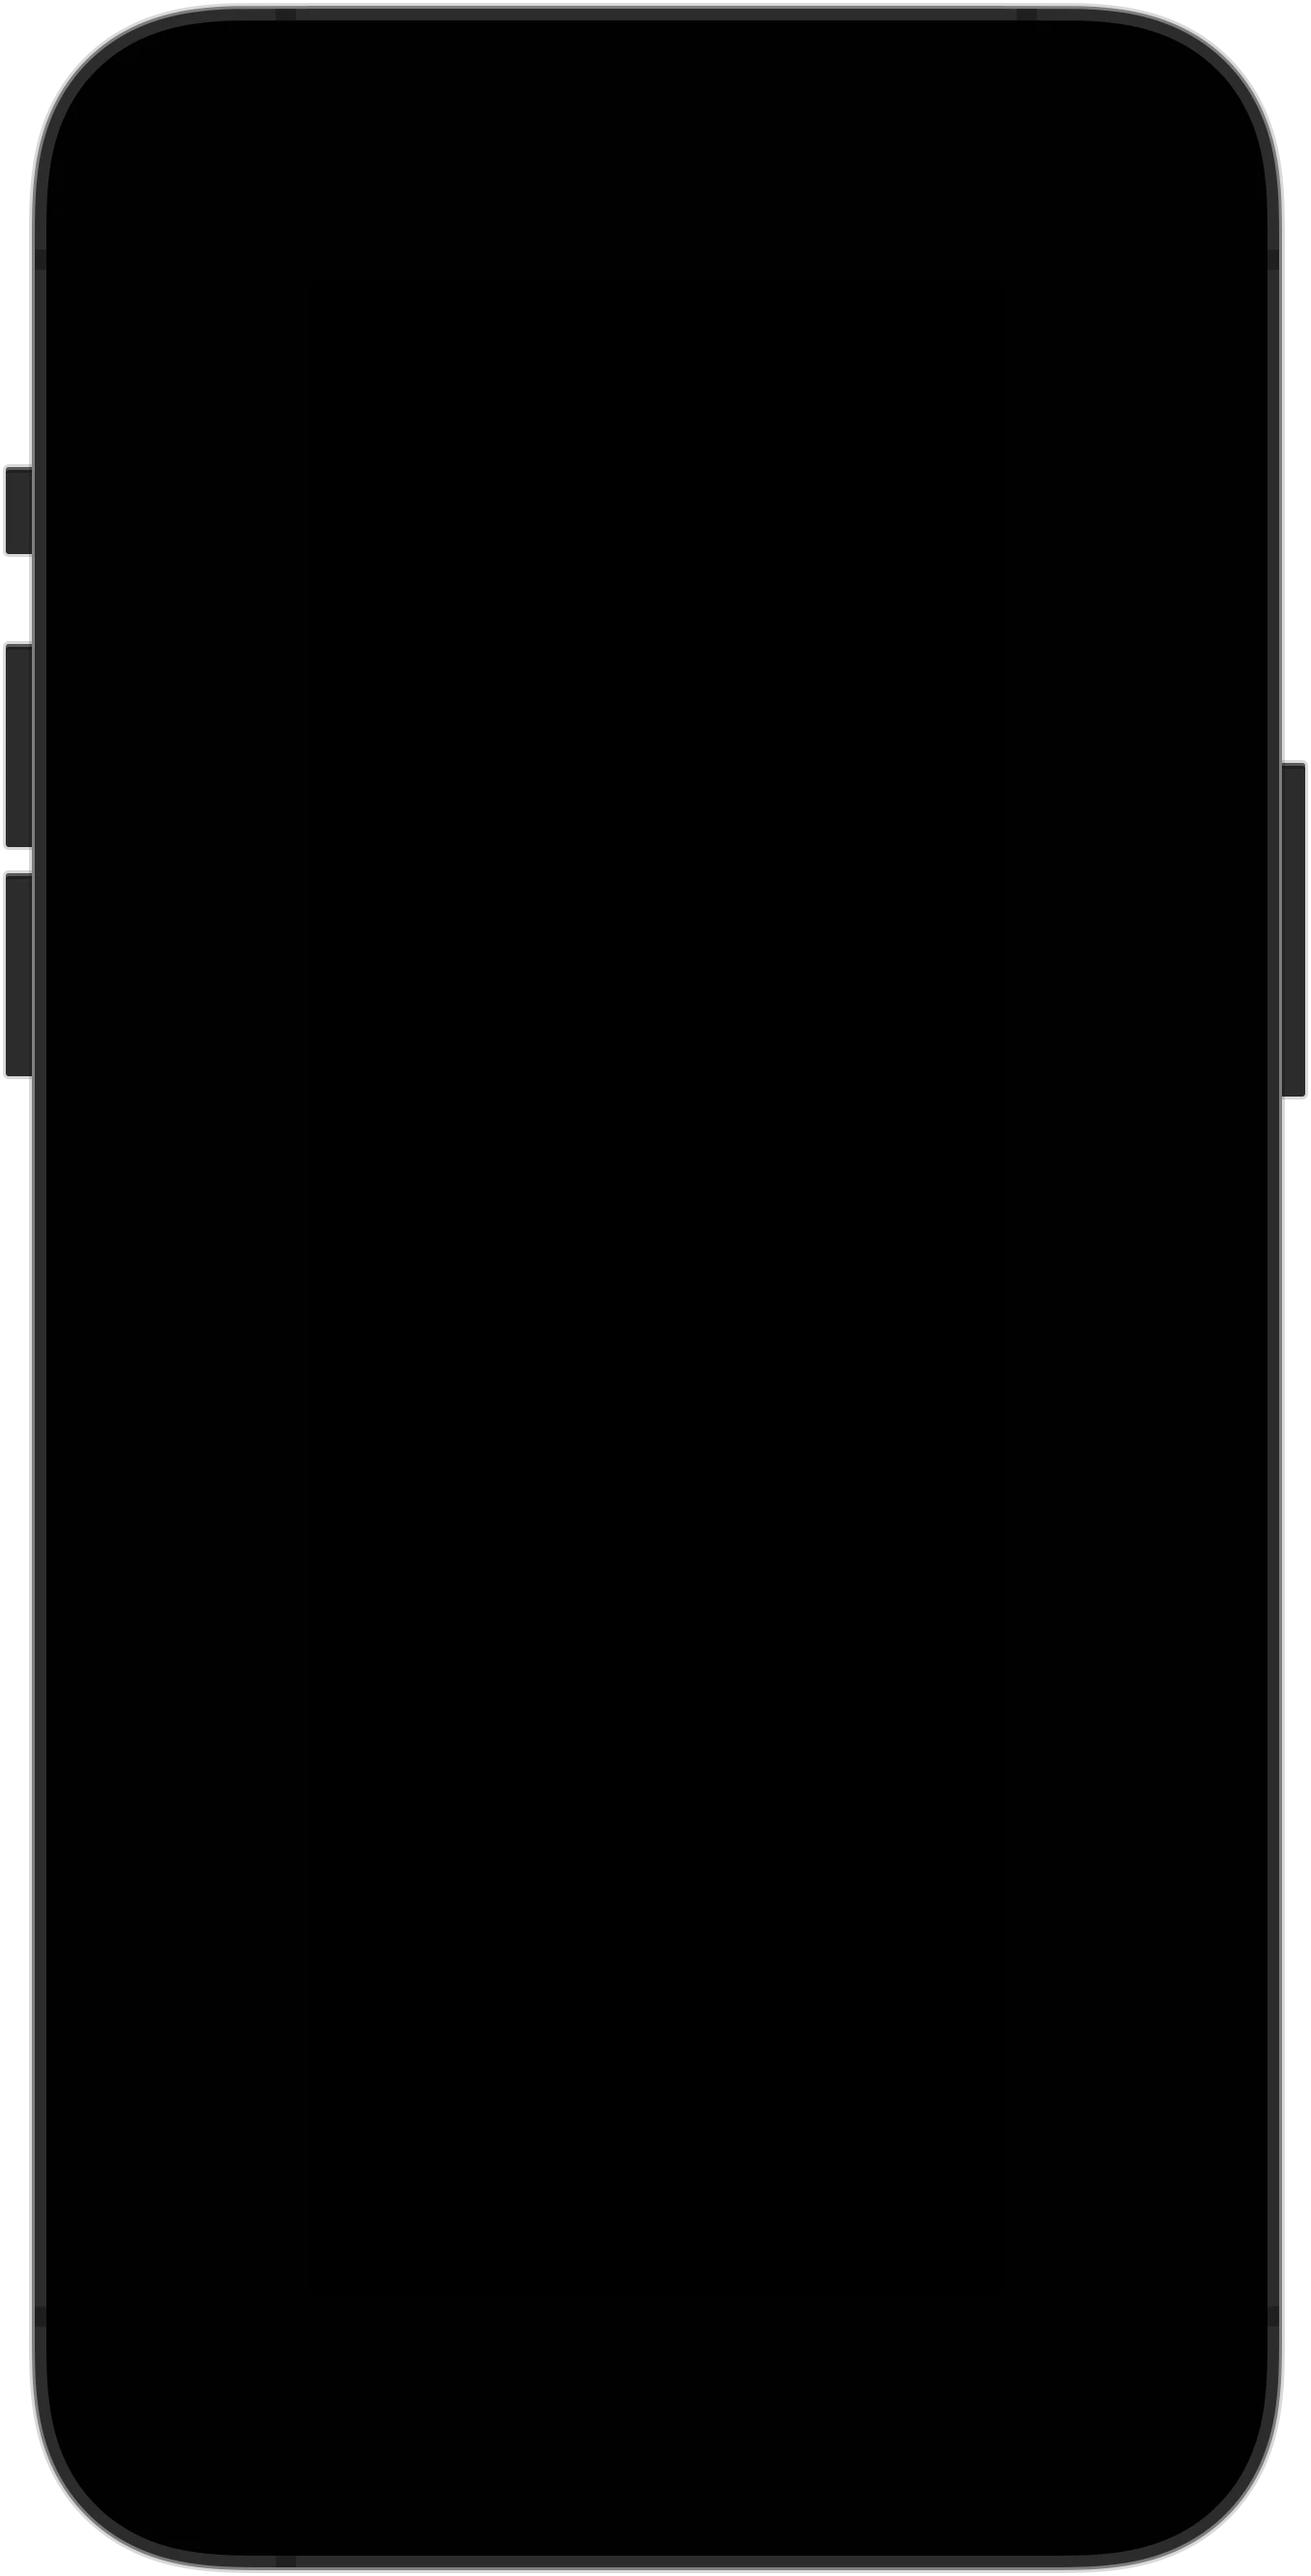
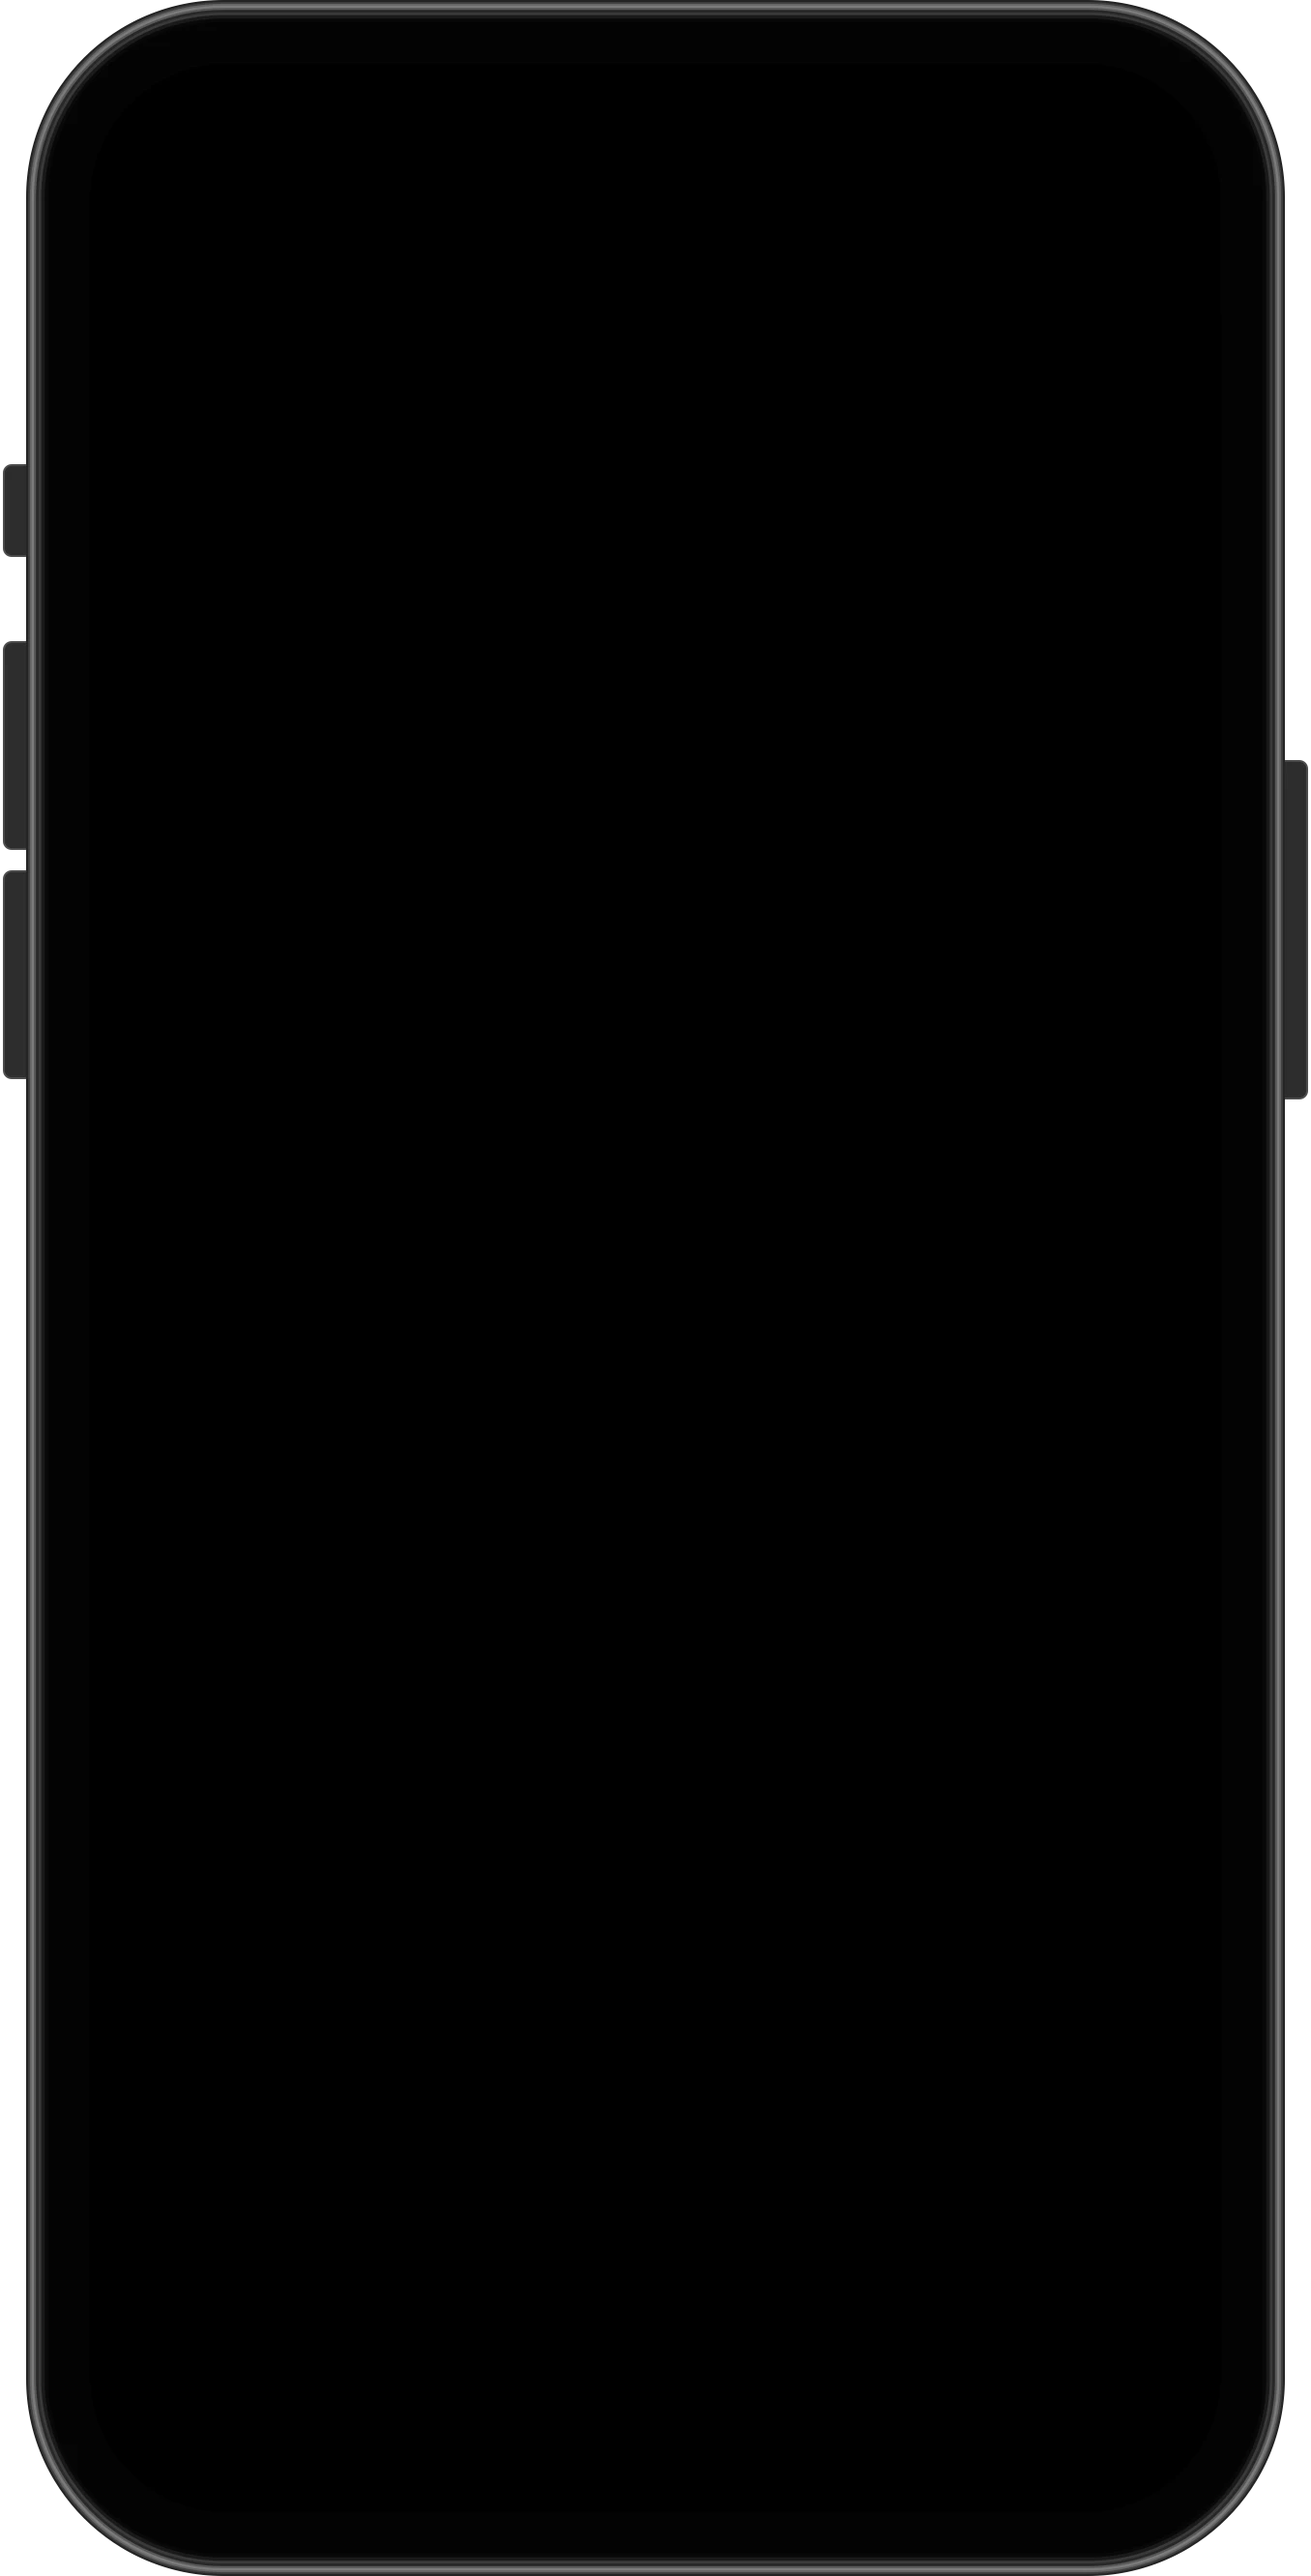
fix(ui): draw the iPhone SE and iPhone 17e frames ourselves
The frames were composed from the Simulator chrome that ships inside
Xcode, which is not ours to redistribute. scripts/draw-iphone-frames.swift
now draws them from plain shapes with the same geometry, styled after the
iPhone 16 Pro frame, so the layout code and tests stay as they are.

diff --git a/packages/ui/scripts/draw-iphone-frames.swift b/packages/ui/scripts/draw-iphone-frames.swift
@@ -1,0 +1,113 @@
+// Draws the iPhone SE (3rd generation) and iPhone 17e frames in src/assets from plain shapes, with no
+// Apple artwork, styled after the iPhone 16 Pro frame: dark outline, bright metal band, black glass.
+// The geometry must match iosModelConfig in src/components/remote-control.tsx.
+// Usage: swift scripts/draw-iphone-frames.swift <out dir>, then convert each PNG to webp:
+//   cwebp -q 90 -alpha_q 100 <out dir>/iphonese_own_portrait.png -o src/assets/iphonese_black_bg.webp
+// and likewise for iphonese_own_landscape (iphonese_black_landscape_bg) and the two iphone17e images.
+import Foundation
+import CoreGraphics
+import ImageIO
+import UniformTypeIdentifiers
+
+let outDir = CommandLine.arguments[1]
+let scale: CGFloat = 3
+
+struct Button { let left: Bool; let y: CGFloat; let height: CGFloat }
+struct Model {
+    let name: String
+    let frame: CGSize          // whole image, points
+    let sidePad: CGFloat       // room for the side buttons on each side
+    let bodyRadius: CGFloat
+    let screen: CGRect         // screen opening, points
+    let screenRadius: CGFloat
+    let buttons: [Button]
+    let homeButton: Bool
+}
+
+let models = [
+    Model(name: "iphonese", frame: CGSize(width: 429, height: 889), sidePad: 9, bodyRadius: 61,
+          screen: CGRect(x: 27, y: 111, width: 375, height: 667), screenRadius: 0,
+          buttons: [Button(left: true, y: 114, height: 36), Button(left: true, y: 188, height: 68),
+                    Button(left: true, y: 269, height: 68), Button(left: false, y: 188, height: 68)],
+          homeButton: true),
+    Model(name: "iphone17e", frame: CGSize(width: 452, height: 888), sidePad: 9, bodyRadius: 68,
+          screen: CGRect(x: 31, y: 22, width: 390, height: 844), screenRadius: 47.33,
+          buttons: [Button(left: true, y: 160, height: 32), Button(left: true, y: 221, height: 72),
+                    Button(left: true, y: 300, height: 72), Button(left: false, y: 262, height: 117)],
+          homeButton: false),
+]
+
+func gray(_ v: CGFloat, _ a: CGFloat = 1) -> CGColor { CGColor(red: v / 255, green: v / 255, blue: v / 255, alpha: a) }
+
+func roundedRect(_ r: CGRect, _ radius: CGFloat) -> CGPath {
+    let rad = max(0, min(radius, min(r.width, r.height) / 2))
+    return CGPath(roundedRect: r, cornerWidth: rad, cornerHeight: rad, transform: nil)
+}
+
+func write(_ img: CGImage, _ path: String) {
+    let d = CGImageDestinationCreateWithURL(URL(fileURLWithPath: path) as CFURL, UTType.png.identifier as CFString, 1, nil)!
+    CGImageDestinationAddImage(d, img, nil)
+    CGImageDestinationFinalize(d)
+}
+
+for m in models {
+    let W = m.frame.width, H = m.frame.height
+    let pxW = Int(W * scale), pxH = Int(H * scale)
+    let ctx = CGContext(data: nil, width: pxW, height: pxH, bitsPerComponent: 8, bytesPerRow: 0,
+                        space: CGColorSpace(name: CGColorSpace.sRGB)!, bitmapInfo: CGImageAlphaInfo.premultipliedLast.rawValue)!
+    ctx.scaleBy(x: scale, y: scale)
+    ctx.translateBy(x: 0, y: H)
+    ctx.scaleBy(x: 1, y: -1)   // top-left coordinates from here on
+
+    let body = CGRect(x: m.sidePad, y: 0, width: W - 2 * m.sidePad, height: H)
+
+    // Side buttons sit behind the body and stick out 8 points.
+    for b in m.buttons {
+        let x = b.left ? body.minX - 8 : body.maxX - 8
+        let r = CGRect(x: x, y: b.y, width: 16, height: b.height)
+        ctx.addPath(roundedRect(r, 3)); ctx.setFillColor(gray(62)); ctx.fillPath()
+        ctx.addPath(roundedRect(r.insetBy(dx: 0.6, dy: 0.6), 2.5)); ctx.setFillColor(gray(34)); ctx.fillPath()
+    }
+
+    // The body edge, outside in: dark outline, bright metal band, dark band, faint highlight, black glass.
+    let rings: [(inset: CGFloat, value: CGFloat)] = [
+        (0, 27), (0.7, 48), (1.3, 82), (1.9, 104), (2.7, 70), (3.4, 30), (4.3, 44), (5.2, 20), (6.4, 9), (7.6, 4),
+    ]
+    for ring in rings {
+        ctx.addPath(roundedRect(body.insetBy(dx: ring.inset, dy: ring.inset), m.bodyRadius - ring.inset))
+        ctx.setFillColor(gray(ring.value)); ctx.fillPath()
+    }
+
+    // The screen opening is pure black, like the existing frames, and the video covers it exactly.
+    ctx.addPath(roundedRect(m.screen, m.screenRadius)); ctx.setFillColor(gray(0)); ctx.fillPath()
+
+    if m.homeButton {
+        let cx = body.midX
+        // Home button centered in the bottom bezel, with a thin metal ring.
+        let bottomBezel = CGRect(x: body.minX, y: m.screen.maxY, width: body.width, height: H - m.screen.maxY)
+        let d: CGFloat = 64
+        let home = CGRect(x: cx - d / 2, y: bottomBezel.midY - d / 2, width: d, height: d)
+        ctx.addEllipse(in: home); ctx.setFillColor(gray(70)); ctx.fillPath()
+        ctx.addEllipse(in: home.insetBy(dx: 1.6, dy: 1.6)); ctx.setFillColor(gray(10)); ctx.fillPath()
+        // Earpiece and front camera in the top bezel.
+        let topMid = m.screen.minY / 2
+        let ear = CGRect(x: cx - 24, y: topMid - 3, width: 48, height: 6)
+        ctx.addPath(roundedRect(ear, 3)); ctx.setFillColor(gray(38)); ctx.fillPath()
+        ctx.addPath(roundedRect(ear.insetBy(dx: 0.8, dy: 0.8), 2.2)); ctx.setFillColor(gray(18)); ctx.fillPath()
+        let cam = CGRect(x: cx - 46 - 5, y: topMid - 5, width: 10, height: 10)
+        ctx.addEllipse(in: cam); ctx.setFillColor(gray(30)); ctx.fillPath()
+        ctx.addEllipse(in: cam.insetBy(dx: 2.2, dy: 2.2)); ctx.setFillColor(CGColor(red: 0.08, green: 0.09, blue: 0.16, alpha: 1)); ctx.fillPath()
+    }
+
+    let portrait = ctx.makeImage()!
+    write(portrait, "\(outDir)/\(m.name)_own_portrait.png")
+
+    // Landscape is the portrait turned 90 degrees counterclockwise, like the existing iPhone 16 Pro art.
+    let lctx = CGContext(data: nil, width: pxH, height: pxW, bitsPerComponent: 8, bytesPerRow: 0,
+                         space: CGColorSpace(name: CGColorSpace.sRGB)!, bitmapInfo: CGImageAlphaInfo.premultipliedLast.rawValue)!
+    lctx.translateBy(x: CGFloat(pxH), y: 0)
+    lctx.rotate(by: .pi / 2)
+    lctx.draw(portrait, in: CGRect(x: 0, y: 0, width: pxW, height: pxH))
+    write(lctx.makeImage()!, "\(outDir)/\(m.name)_own_landscape.png")
+    print("\(m.name): \(pxW)x\(pxH) px")
+}

diff --git a/packages/ui/src/components/remote-control.tsx b/packages/ui/src/components/remote-control.tsx
@@ -379,9 +379,8 @@ const deviceConfig: Record<DevicePlatform, DeviceConfig> = {
   },
 };
 
-// The iPhone SE and iPhone 17e artwork is Simulator's own device chrome around the screen, so the
-// screen openings are exact: 375 × 667 points in a 429 × 889 frame, and 390 × 844 in a 452 × 888 one.
-// The SE's side bezels are 18 points instead of Simulator's 28, which looked heavy at streaming size.
+// The iPhone SE and iPhone 17e artwork is drawn by scripts/draw-iphone-frames.swift around the exact
+// screen openings: 375 × 667 points in a 429 × 889 frame, and 390 × 844 in a 452 × 888 one.
 // The SE screen has square corners; the 17e's have a radius of about 47 points.
 const iosModelConfig: Record<FramedIOSModel, DeviceConfig> = {
   'iphone-se': {

diff --git a/packages/ui/src/components/remote-control-layout.test.tsx b/packages/ui/src/components/remote-control-layout.test.tsx
@@ -98,7 +98,7 @@ it('fits the tablet screen opening after metadata, rotation and container resizi
 });
 
 it.each([
-  // Simulator's chrome around a 375 × 667 screen with square corners, drawn at 3x.
+  // A 375 × 667 screen with square corners in a 429 × 889 frame, drawn at 3x.
   { model: 'iphone-se', art: 'iphonese', frame: [1287, 2667], screen: 667 / 889, radius: 0 },
   // A 390 × 844 screen with rounded corners in a 452 × 888 frame, drawn at 3x.
   { model: 'iphone-17e', art: 'iphone17e', frame: [1356, 2664], screen: 844 / 888, radius: 47.33 / 452 },
